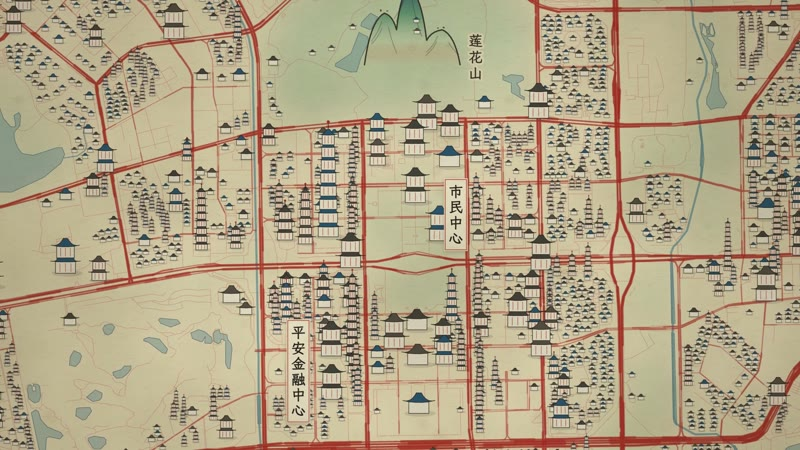
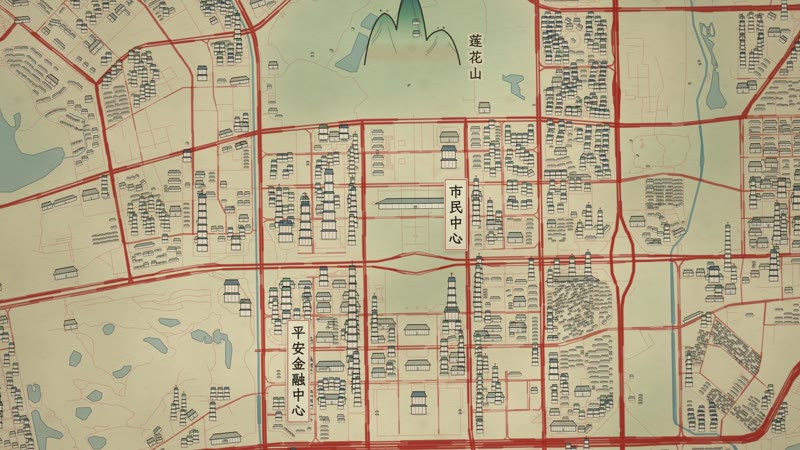
Scroll Map: style 03, the second of the Real Maps series (OpenStreetMap)
"Shenzhen, Unrolled" (48 s): a painted handscroll unrolls along the real
coast of Shenzhen. Ink traces the shore, blue-green mountains stand up,
cinnabar roads spread from Luohu and the towers of Futian rise as tiered
pavilions. The style is registered now (style.hold.json -> style.json),
so the gallery, the README tables and the style lists carry it.

The film is v003, built from the picture that was in progress:
- buildings follow their footprints: halls of the footprint's size and
  direction, pavilions only for buildings of 24 m and more (Ping An
  Finance Centre has 13 tiers);
- a square building that faces east or west was drawn as a slab standing
  on end, its roof to the right; it is turned to face south first, so
  every roof points up the sheet;
- the sound keeps the cue check and the pre-master levels: 6 cues, all
  0 ms, 111 sounds driven by the picture's events, -13.9 LUFS.

STYLE and DEMO describe the buildings as they are drawn now, in both
languages; README and TECHNIQUE name the third demo.

diff --git a/styleboard/index.html b/styleboard/index.html
@@ -4,18 +4,18 @@
 <meta charset="utf-8">
 <meta name="viewport" content="width=device-width, initial-scale=1">
 <title>NEO-Cine · film styles for Claude Code, made in code</title>
-<meta name="description" content="NEO-Cine: film styles for Claude Code, made one at a time (2 so far). Each style is a reusable prompt plus a short film made entirely in code, with no video model. Official site of github.com/neohoy/neo-cine.">
+<meta name="description" content="NEO-Cine: film styles for Claude Code, made one at a time (3 so far). Each style is a reusable prompt plus a short film made entirely in code, with no video model. Official site of github.com/neohoy/neo-cine.">
 <link rel="canonical" href="https://neohoy.github.io/neo-cine/">
 <meta property="og:type" content="website">
 <meta property="og:site_name" content="NEO-Cine">
 <meta property="og:url" content="https://neohoy.github.io/neo-cine/">
 <meta property="og:title" content="NEO-Cine · film styles for Claude Code, made in code">
-<meta property="og:description" content="NEO-Cine: film styles for Claude Code, made one at a time (2 so far). Each style is a reusable prompt plus a short film made entirely in code, with no video model. Official site of github.com/neohoy/neo-cine.">
-<meta property="og:image" content="https://neohoy.github.io/neo-cine/posters/atlas-scroll.jpg">
+<meta property="og:description" content="NEO-Cine: film styles for Claude Code, made one at a time (3 so far). Each style is a reusable prompt plus a short film made entirely in code, with no video model. Official site of github.com/neohoy/neo-cine.">
+<meta property="og:image" content="https://neohoy.github.io/neo-cine/posters/scroll-map.jpg">
 <meta name="twitter:card" content="summary_large_image">
 <meta name="twitter:title" content="NEO-Cine · film styles for Claude Code, made in code">
-<meta name="twitter:description" content="NEO-Cine: film styles for Claude Code, made one at a time (2 so far). Each style is a reusable prompt plus a short film made entirely in code, with no video model. Official site of github.com/neohoy/neo-cine.">
-<meta name="twitter:image" content="https://neohoy.github.io/neo-cine/posters/atlas-scroll.jpg">
+<meta name="twitter:description" content="NEO-Cine: film styles for Claude Code, made one at a time (3 so far). Each style is a reusable prompt plus a short film made entirely in code, with no video model. Official site of github.com/neohoy/neo-cine.">
+<meta name="twitter:image" content="https://neohoy.github.io/neo-cine/posters/scroll-map.jpg">
 <script type="application/ld+json">
 {
  "@context": "https://schema.org",
@@ -25,7 +25,7 @@
    "@id": "https://neohoy.github.io/neo-cine/",
    "url": "https://neohoy.github.io/neo-cine/",
    "name": "NEO-Cine gallery",
-   "description": "NEO-Cine: film styles for Claude Code, made one at a time (2 so far). Each style is a reusable prompt plus a short film made entirely in code, with no video model. Official site of github.com/neohoy/neo-cine.",
+   "description": "NEO-Cine: film styles for Claude Code, made one at a time (3 so far). Each style is a reusable prompt plus a short film made entirely in code, with no video model. Official site of github.com/neohoy/neo-cine.",
    "about": {
     "@id": "https://github.com/neohoy/neo-cine"
    },
@@ -241,7 +241,7 @@ footer .repo-link:hover{color:var(--yellow)}
     <p class="tagline">Every style is a reusable prompt, and a short film directed, drawn and scored entirely in code.</p>
     <p class="tagline-cn">每个风格是一份可复用的提示词，外加一支完全用代码导演、作画、配乐的短片。风格一个一个做。</p>
     <a class="repo" href="https://github.com/neohoy/neo-cine" target="_blank" rel="noopener"><svg viewBox="0 0 16 16" aria-hidden="true"><path d="M8 0C3.58 0 0 3.58 0 8c0 3.54 2.29 6.53 5.47 7.59.4.07.55-.17.55-.38 0-.19-.01-.82-.01-1.49-2.01.37-2.53-.49-2.69-.94-.09-.23-.48-.94-.82-1.13-.28-.15-.68-.52-.01-.53.63-.01 1.08.58 1.23.82.72 1.21 1.87.87 2.33.66.07-.52.28-.87.51-1.07-1.78-.2-3.64-.89-3.64-3.95 0-.87.31-1.59.82-2.15-.08-.2-.36-1.02.08-2.12 0 0 .67-.21 2.2.82.64-.18 1.32-.27 2-.27.68 0 1.36.09 2 .27 1.53-1.04 2.2-.82 2.2-.82.44 1.1.16 1.92.08 2.12.51.56.82 1.27.82 2.15 0 3.07-1.87 3.75-3.65 3.95.29.25.54.73.54 1.48 0 1.07-.01 1.93-.01 2.2 0 .21.15.46.55.38A8.01 8.01 0 0016 8c0-4.42-3.58-8-8-8z"/></svg><span>Get the styles on GitHub</span><b class="stars" data-stars hidden>★ <i></i></b></a>
-    <div class="stats"><div class="stat"><b>2</b><span>Styles<small>种风格</small></span></div><div class="stat"><b>2</b><span>Categories<small>个分类</small></span></div><div class="stat"><b>96</b><span>Seconds of film<small>秒影片</small></span></div></div>
+    <div class="stats"><div class="stat"><b>3</b><span>Styles<small>种风格</small></span></div><div class="stat"><b>2</b><span>Categories<small>个分类</small></span></div><div class="stat"><b>2</b><span>Minutes of film<small>分钟影片</small></span></div></div>
   </div>
 </header>
 
@@ -251,21 +251,21 @@ footer .repo-link:hover{color:var(--yellow)}
 </div></nav>
 
 <section class="feature" id="feature"><div class="wrap">
-  <p class="kicker">Newest style · No. 02<small>最新风格</small></p>
-  <h2>Atlas Scroll</h2>
-  <p class="sub">铜版图卷 · <em>From Thirteen to Fifty</em></p>
-  <div class="frame nominee-like" data-en="Atlas Scroll" data-cn="铜版图卷" data-film="From Thirteen to Fifty">
-    <div class="screen"><img class="still" src="../styles/atlas-scroll/poster.jpg" alt="Atlas Scroll — From Thirteen to Fifty">
-      <button class="play" type="button" data-src="../styles/atlas-scroll/atlas-scroll.mp4" data-poster="../styles/atlas-scroll/poster.jpg" aria-label="Play From Thirteen to Fifty"><i></i><span>0:56</span></button></div>
+  <p class="kicker">Newest style · No. 03<small>最新风格</small></p>
+  <h2>Scroll Map</h2>
+  <p class="sub">舆图长卷 · <em>Shenzhen, Unrolled</em></p>
+  <div class="frame nominee-like" data-en="Scroll Map" data-cn="舆图长卷" data-film="Shenzhen, Unrolled">
+    <div class="screen"><img class="still" src="../styles/scroll-map/poster.jpg" alt="Scroll Map — Shenzhen, Unrolled">
+      <button class="play" type="button" data-src="../styles/scroll-map/scroll-map.mp4" data-poster="../styles/scroll-map/poster.jpg" aria-label="Play Shenzhen, Unrolled"><i></i><span>0:48</span></button></div>
   </div>
-  <p class="blurb">A hand-coloured atlas plate unrolls westward: the states take their colours year by year, a covered wagon leads the way to the Pacific, and in 1869 the railway overtakes it.</p>
-  <p class="blurb-cn">一张手工设色的地图集图版向西展开：各州一年年上色，一辆篷车带路走到太平洋，1869 年铁路追上了它。</p>
-  <nav class="links"><a class="watch" href="#feature" data-feature>Watch the film</a><a href="../styles/atlas-scroll/STYLE.md" target="_blank" rel="noopener">STYLE.md</a><a href="../styles/atlas-scroll/STYLE.zh-CN.md" target="_blank" rel="noopener">风格说明</a></nav>
+  <p class="blurb">A handscroll unrolls along the real coast of Shenzhen: ink traces the shore, blue-green mountains stand up, cinnabar roads spread from Luohu and the towers of Futian rise as tiered pavilions.</p>
+  <p class="blurb-cn">一幅长卷沿着真实的深圳海岸展开：墨线勾出岸，青绿的山一座座立起来，朱砂的路从罗湖烧开，福田的高楼长成一层层的楼阁。</p>
+  <nav class="links"><a class="watch" href="#feature" data-feature>Watch the film</a><a href="../styles/scroll-map/STYLE.md" target="_blank" rel="noopener">STYLE.md</a><a href="../styles/scroll-map/STYLE.zh-CN.md" target="_blank" rel="noopener">风格说明</a></nav>
 </div></section>
 
 <main><div class="wrap">
 <section class="category" id="real-maps">
-  <header class="cat-head"><div><p class="cat-no">Category 01</p><h2>Real Maps</h2><p class="cat-cn">真实地图 · 1 style</p><p class="cat-cn">A series built on OpenStreetMap (the ground as it is today) and OpenHistoricalMap (borders, railways and routes by year): the map is real, the look changes from style to style.<br>基于 OpenStreetMap（今天的地面）和 OpenHistoricalMap（历年的边界、铁路、路线）的系列：地图是真的，画法每个风格各不相同。</p></div></header>
+  <header class="cat-head"><div><p class="cat-no">Category 01</p><h2>Real Maps</h2><p class="cat-cn">真实地图 · 2 styles</p><p class="cat-cn">A series built on OpenStreetMap (the ground as it is today) and OpenHistoricalMap (borders, railways and routes by year): the map is real, the look changes from style to style.<br>基于 OpenStreetMap（今天的地面）和 OpenHistoricalMap（历年的边界、铁路、路线）的系列：地图是真的，画法每个风格各不相同。</p></div></header>
   <div class="grid">
 <article class="nominee" data-slug="atlas-scroll" data-en="Atlas Scroll" data-cn="铜版图卷" data-film="From Thirteen to Fifty">
   <div class="screen"><img class="still" src="img/atlas-scroll_0.jpg" alt="Atlas Scroll — From Thirteen to Fifty" loading="lazy"><button class="play" type="button" data-src="../styles/atlas-scroll/atlas-scroll.mp4" data-poster="../styles/atlas-scroll/poster.jpg" aria-label="Play From Thirteen to Fifty"><i></i><span>0:56</span></button></div>
@@ -276,6 +276,17 @@ footer .repo-link:hover{color:var(--yellow)}
     <p class="line">A hand-coloured atlas plate unrolls westward: the states take their colours year by year, a covered wagon leads the way to the Pacific, and in 1869 the railway overtakes it.</p><p class="line-cn">一张手工设色的地图集图版向西展开：各州一年年上色，一辆篷车带路走到太平洋，1869 年铁路追上了它。</p>
     <ul class=uses aria-label="Best for"><li>How a country, a network or a market grew, year by year</li><li>Journeys along a real route with a guide to follow</li><li>History lessons and anniversary films</li></ul>
     <nav class="links"><a class="watch" href="../styles/atlas-scroll/atlas-scroll.mp4" data-play>Watch the film</a><a href="../styles/atlas-scroll/STYLE.md" target="_blank" rel="noopener">STYLE.md</a><a href="../styles/atlas-scroll/STYLE.zh-CN.md" target="_blank" rel="noopener">风格说明</a></nav>
+  </div>
+</article>
+<article class="nominee" data-slug="scroll-map" data-en="Scroll Map" data-cn="舆图长卷" data-film="Shenzhen, Unrolled">
+  <div class="screen"><img class="still" src="img/scroll-map_0.jpg" alt="Scroll Map — Shenzhen, Unrolled" loading="lazy"><button class="play" type="button" data-src="../styles/scroll-map/scroll-map.mp4" data-poster="../styles/scroll-map/poster.jpg" aria-label="Play Shenzhen, Unrolled"><i></i><span>0:48</span></button></div>
+  <div class="plate">
+    <p class="no">03</p>
+    <h3>Scroll Map</h3><p class="cn">舆图长卷</p>
+    <p class="for">for <em>Shenzhen, Unrolled</em></p>
+    <p class="line">A handscroll unrolls along the real coast of Shenzhen: ink traces the shore, blue-green mountains stand up, cinnabar roads spread from Luohu and the towers of Futian rise as tiered pavilions.</p><p class="line-cn">一幅长卷沿着真实的深圳海岸展开：墨线勾出岸，青绿的山一座座立起来，朱砂的路从罗湖烧开，福田的高楼长成一层层的楼阁。</p>
+    <ul class=uses aria-label="Best for"><li>City, district and coastline portraits</li><li>Routes and journeys: a road, a river, a metro line</li><li>Before-and-after stories of a place</li></ul>
+    <nav class="links"><a class="watch" href="../styles/scroll-map/scroll-map.mp4" data-play>Watch the film</a><a href="../styles/scroll-map/STYLE.md" target="_blank" rel="noopener">STYLE.md</a><a href="../styles/scroll-map/STYLE.zh-CN.md" target="_blank" rel="noopener">风格说明</a></nav>
   </div>
 </article>
   </div>

diff --git a/styles/scroll-map/demo/main.js b/styles/scroll-map/demo/main.js
@@ -77,6 +77,7 @@ const HOUSES = (det.buildings || []).map((b, i) => {
     const w = Math.max(D, 16), d = clamp(w / 2.3, 11, 40), n = clamp(Math.round(L / (d * 1.7)), 1, 8), ux = Math.cos(ang), uy = Math.sin(ang), a2 = a - Math.sign(a) * Math.PI / 2;
     return Array.from({ length: n }, (_, q) => { const o = (n === 1 ? 0 : (q / (n - 1) - .5)) * (L - d * 1.3); return { ...base, x: mx + ux * o, y: my + uy * o, L: w, D: d, ang: a2, bays: clamp(Math.round(w / 11), 1, 7), seed: i * 9 + q + 1 }; });
   }
+  if (Math.abs(a) > .87) { const f = Math.max(D, 16); D = Math.min(L, f); L = f; a -= Math.sign(a) * Math.PI / 2; }   // 朝东西的方楼：转成朝南来画，屋顶才朝上（不转的话是一块竖着的板）
   L = Math.max(L, 16); D = clamp(Math.max(D, L / 4.2), 11, 70);                                      // 太细长的占地加一点进深，不画成一根条
   return { ...base, x: mx, y: my, L, D, ang: a, bays: clamp(Math.round(L / 11), 1, 11), seed: i + 1 };
 }).flat().filter(Boolean).sort((p, q) => q.ar * (q.tiers + 1) - p.ar * (p.tiers + 1)).filter((() => {      // 大的先占位：同一个 20 米格子里只留一座，碎楼不成团

diff --git a/styles/scroll-map/STYLE.md b/styles/scroll-map/STYLE.md
@@ -21,7 +21,7 @@ Needs: the library's core tools, plus `neo/geo/osm.py` for the map data (Python 
 - **Land** is bare paper, with an ochre wash blurred inward from the shore, and a pale green wash under woods and parks.
 - **Ink lines** are stroked twice: once plain, once wider through an irregular dash, which reads as the pressure of a brush. Coast and railways are ink; nothing else is.
 - **Mountains** are signs, not terrain: two or three rounded peaks, ink on the ridge only, azurite at the top running through malachite into the paper at the foot, a few texture strokes and moss dots. Their size follows how deep the woodland is; a named peak with an elevation gets its own, sized by height. Northern ones are drawn first so that southern ones overlap them like ranges.
-- **Buildings** are signs too: a footprint becomes a small house (white body, dark hipped roof); a tall building becomes a pavilion whose number of tiers follows its height, each tier narrower, eaves turned up, a finial on top. Crowded small ones are thinned so that every sign is legible.
+- **Buildings** are signs too: a footprint becomes a hall of its own size, turned the way the footprint lies (white body, dark hipped roof, one bay per 11 m of frontage), and its roof always points up the sheet: a footprint that runs north–south is drawn as halls one behind the other, all facing south, never as a hall lying on its side. A tall building (24 m and more) becomes a pavilion whose number of tiers follows its height, each tier narrower, eaves turned up, a finial on top; it always stands upright. Crowded small ones are thinned so that every sign is legible; what is underground (metro boxes, malls under a square) is not drawn.
 - **Walled towns** get a crenellated square with gate towers.
 - All of it is procedural and seeded by the feature, so nothing boils. Only the vignette is in screen space.
 
@@ -87,7 +87,7 @@ A camera state is a point on the map and a frame height in metres. North is up a
 
 - **Roads become red bands up close.** Cap every line in pixels (§2), and let small roads appear only past a zoom threshold.
 - **The coast closes along the edge of the data** and draws a rectangle. Stroke only the true coast, and keep the painting's edge inside the data's edge by more than the widest wash.
-- **Data is uneven.** Building heights are often missing; small buildings come in swarms. Decide tiers from height where it exists and from footprint where it doesn't, and thin the swarms.
+- **Data is uneven.** Building heights are often missing; small buildings come in swarms. Draw a pavilion only where a height says the building is tall, a hall of the footprint's size everywhere else, and thin the swarms.
 - **Names vanish into mountains.** Halo them or put them on a slip, and place them beside the thing, not on it.
 - **A clip rectangle that starts off-screen** must still reach the right edge: compute its width from the screen, not from a constant.
 - **Boundaries.** Don't fetch or draw them (DIRECTOR.md §13). Draw both sides of any line the same way, and keep the frame regional.
@@ -96,14 +96,14 @@ A camera state is a point on the map and a frame height in metres. North is up a
 ## 10. Engine
 
 - [`neo/geo/osm.py`](../../neo/geo/osm.py): bounding box and layer names in, one JSON file out (metres around an origin, simplified lines, land closed against the box). `--origin` lets a detail file overlay a wide one.
-- [`demo/ink.js`](demo/ink.js): `makePaper`, `makeWaves`, `inkStroke(g, path, width, colour, seed)`, `drawPeak(g, x, y, w, h, seed)`, `drawHouse(g, x, y, w, tiers, seed, growth)`, `drawSlip`, `vtext`, `drawSeal`.
+- [`demo/ink.js`](demo/ink.js): `makePaper`, `makeWaves`, `inkStroke(g, path, width, colour, seed)`, `drawPeak(g, x, y, w, h, seed)`, `drawHall(g, x, y, frontage, depth, angle, bays, seed)`, `drawTower(g, x, y, w, tiers, seed, growth)`, `drawSlip`, `vtext`, `drawSeal`.
 - [`demo/main.js`](demo/main.js): `MOUNTAINS` (signs from woodland density and peaks), `HOUSES` (signs from footprints), `layer(draw, mask)` with `washMask` and `frontClip` for the fronts, `drawFort`, `drawScroll`.
 
 ```js
 // a river town at street scale, nothing from the demo: paper, one inked river, three pavilions
 g.fillStyle = C.paper; g.fillRect(0, 0, W, H);
 world(); inkStroke(g, riverPath, lw(40, 1.5, 5), C.ink, 7); screen();
-[[-300, 2], [0, 5], [280, 3]].forEach(([x, tiers], i) => drawHouse(g, sx(x), sy(120), 90 * S, tiers, i + 1, 1));
+[[-300, 2], [0, 5], [280, 3]].forEach(([x, tiers], i) => drawTower(g, sx(x), sy(120), 90 * S, tiers, i + 1, 1));
 drawSlip(g, '渡口', sx(420), sy(260), 30, 'slip');
 ```
 

diff --git a/styles/scroll-map/STYLE.zh-CN.md b/styles/scroll-map/STYLE.zh-CN.md
@@ -24,7 +24,7 @@
 - **陆地**是素纸，岸内有一圈往里晕开的赭石，林地和园地下面有一层淡的石绿。
 - **墨线**描两遍：一遍平描，一遍用不规则的虚线加粗，读起来像提按。只有海岸和铁路是墨线。
 - **山**是符号，不是地形：两三个圆厚的峰头，墨只勾山脊，石青压顶，经过石绿，在山脚化进纸里，几笔皴，几点苔。大小跟着林地的厚度走；有名字有高程的峰单独立一座，按高度定大小。北边的先画，南边的压在上面，像一层层山。
-- **楼**也是符号：一块占地画成一间小屋（粉白的墙、深色的歇山顶）；高楼画成楼阁，层数跟着高度走，一层比一层窄，檐角上挑，顶上有刹。挤在一起的小屋要删减，保证每个符号都看得清。
+- **楼**也是符号：一块占地画成和它一样大的一座堂屋，顺着占地的方向摆（粉白的墙、深色的歇山顶，面阔每 11 米一间），屋顶永远朝画面上方：南北向的占地画成前后几进、都朝南的堂屋，绝不画成一座侧躺着的屋。高楼（24 米以上）画成楼阁，层数跟着高度走，一层比一层窄，檐角上挑，顶上有刹，永远正着立。挤在一起的小屋要删减，保证每个符号都看得清；地下的东西（地铁站厅、广场下面的商场）不画。
 - **有城墙的城**画成一圈带垛口的方城，四面有城门楼。
 - 全部是程序化的，种子取自要素本身，所以不会抖。只有暗角在屏幕空间里。
 
@@ -90,7 +90,7 @@
 
 - **推近后路变成红色的带子。** 每条线都要有像素上限（§2），小路要过了某个缩放才出现。
 - **海岸沿着数据边界闭合**，画出一个长方形。只描真正的海岸，并且让画心的边比数据的边往里收，收的量大于最宽的晕染。
-- **数据不均匀。** 楼高常常没填；小楼成群出现。有高度的按高度定层数，没有的按占地定，成群的要删减。
+- **数据不均匀。** 楼高常常没填；小楼成群出现。只有标了高度、确实是高楼的才画楼阁，其余按占地的大小画堂屋，成群的要删减。
 - **名字被山盖住。** 给它描边或者放到签上，放在东西旁边，不放在东西上面。
 - **从屏幕外开始的裁剪矩形**仍然要够到右边缘：宽度要从屏幕算，不能用常数。
 - **界线。** 不取、不画（DIRECTOR.md §13）。任何一条线的两边用同样的画法，画面保持在区域尺度。
@@ -99,7 +99,7 @@
 ## 10. 引擎
 
 - [`neo/geo/osm.py`](../../neo/geo/osm.py)：输入范围和图层名，输出一份 JSON（以某个原点为中心的米制坐标、简化过的线、按范围闭合的陆地）。用 `--origin` 可以让一份细节数据叠在一份大范围数据上。
-- [`demo/ink.js`](demo/ink.js)：`makePaper`、`makeWaves`、`inkStroke(g, path, width, colour, seed)`、`drawPeak(g, x, y, w, h, seed)`、`drawHouse(g, x, y, w, tiers, seed, growth)`、`drawSlip`、`vtext`、`drawSeal`。
+- [`demo/ink.js`](demo/ink.js)：`makePaper`、`makeWaves`、`inkStroke(g, path, width, colour, seed)`、`drawPeak(g, x, y, w, h, seed)`、`drawHall(g, x, y, 面阔, 进深, 角度, 间数, seed)`、`drawTower(g, x, y, w, tiers, seed, growth)`、`drawSlip`、`vtext`、`drawSeal`。
 - [`demo/main.js`](demo/main.js)：`MOUNTAINS`（由林地厚度和山峰生成的符号）、`HOUSES`（由占地生成的符号）、做前沿用的 `layer(draw, mask)` 加 `washMask` 和 `frontClip`、`drawFort`、`drawScroll`。
 
 最小示例见英文版 §10：街道尺度上的一个渡口小镇，一条墨线的河、三座楼阁、一张贴签，和示范片无关。

diff --git a/styles/scroll-map/DEMO.md b/styles/scroll-map/DEMO.md
@@ -44,7 +44,7 @@ Native moves spent: unrolling (opening and reveal), the brush leading (the penin
 
 ## Palette & props
 
-The palette in STYLE.md §3 is this film's. Slips: pale `#f2e8cc` with a cinnabar frame; the two old towns (Dapeng Fortress, Nantou) on cinnabar slips. Seal: 深圳. Mountains come from 3,040 woodland areas and the named peaks of 60 m and more; the pavilions from 4,868 building footprints in central Futian, of which 1,357 carry a height.
+The palette in STYLE.md §3 is this film's. Slips: pale `#f2e8cc` with a cinnabar frame; the two old towns (Dapeng Fortress, Nantou) on cinnabar slips. Seal: 深圳. Mountains come from 3,040 woodland areas and the named peaks of 60 m and more; the buildings from 4,825 footprints in central Futian: the 1,143 that carry a height of 24 m and more are pavilions (Ping An Finance Centre, 599 m, has 13 tiers), the others halls drawn along their footprints.
 
 Map view: a coastal strip, 113.74–114.66° E, 22.40–22.74° N, north up, no boundary lines; the New Territories at the bottom edge are drawn exactly like the rest.
 
@@ -58,7 +58,7 @@ The whole scroll on a dark table; at its right end the title 鹏城长卷 and th
 |---|---|
 | `demo/index.html` | fonts and the canvas |
 | `demo/timeline.js` | the one source of time: camera keys, the roll, ink and cinnabar fronts, tower timing, title, labels |
-| `demo/ink.js` | the recipes: paper, waves, ink stroke, peak, house and pavilion, slip, seal |
+| `demo/ink.js` | the recipes: paper, waves, ink stroke, peak, hall and pavilion, slip, seal |
 | `demo/main.js` | data → paths and signs, the layers and their fronts, the scroll and roll, sound events, `window.render` |
 | `demo/mix.py` | score, foley, ambience and bus |
 | `demo/data/coast.json`, `futian.json` | the map, made by `neo/geo/osm.py` (commands in `build.sh`) |
@@ -73,6 +73,9 @@ The whole scroll on a dark table; at its right end the title 鹏城长卷 and th
   - Fish ponds in the south read as grey buildings until water outlines were thinned by zoom.
   - The first mountains were spiky and read as pine trees: the ridge curves were made convex.
   - Small building parts swarmed into dark blots: larger signs now claim their space first.
+  - Every footprint drawn as the same small house made the centre of Futian a field of pagodas: only buildings of 24 m and more are pavilions now, the rest are halls of the footprint's size and direction.
+  - A square building that faces east or west came out as a slab standing on end, its roof to the right: it is turned to face south before it is drawn.
+  - Metro station boxes and underground malls were drawn as huge halls in the middle of squares: `neo/geo/osm.py` leaves out what is tagged underground.
 
 ## content.json fields (scene styles only)
 

diff --git a/README.md b/README.md
@@ -11,7 +11,7 @@ Pick a style, bring your story, and let your coding agent direct.<br>
 ⚠ **Built for Claude Code.** The styles are made and tuned with Claude;<br>
 other agents may not reproduce them well.
 
-🆕 **2026-11-11 · [Style 02: Atlas Scroll](https://neohoy.github.io/neo-cine/)**: the first style of the Real Maps series, drawn over OpenStreetMap and OpenHistoricalMap data. A hand-coloured old map unrolls westward and the states take their colours year by year. [See it ↓](#the-styles)
+🆕 **2026-11-12 · [Style 03: Scroll Map](https://neohoy.github.io/neo-cine/)**: the second style of the Real Maps series, drawn over OpenStreetMap data. A painted handscroll unrolls along the coast of Shenzhen: ink traces the shore, blue-green mountains stand up, cinnabar roads spread from Luohu and the towers of Futian rise as tiered pavilions. [See it ↓](#the-styles)
 
 <sub>Official repo: [github.com/neohoy/neo-cine](https://github.com/neohoy/neo-cine) · by NEO造物集 ([@neohoy](https://github.com/neohoy))</sub>
 
@@ -163,7 +163,7 @@ A series built on OpenStreetMap (the ground as it is today) and OpenHistoricalMa
 <table>
 <tr>
 <td width="33%" valign="top"><a href="styles/atlas-scroll/STYLE.md"><img src="docs/frames/atlas-scroll.jpg" alt="Atlas Scroll"></a><br><b>Atlas Scroll</b><br><i>From Thirteen to Fifty</i><br><sub>A hand-coloured atlas plate unrolls westward: the states take their colours year by year, a covered wagon leads the way to the Pacific, and in 1869 the railway overtakes it.</sub></td>
-<td width="33%" valign="top"></td>
+<td width="33%" valign="top"><a href="styles/scroll-map/STYLE.md"><img src="docs/frames/scroll-map.jpg" alt="Scroll Map"></a><br><b>Scroll Map</b><br><i>Shenzhen, Unrolled</i><br><sub>A handscroll unrolls along the real coast of Shenzhen: ink traces the shore, blue-green mountains stand up, cinnabar roads spread from Luohu and the towers of Futian rise as tiered pavilions.</sub></td>
 <td width="33%" valign="top"></td>
 </tr>
 </table>

diff --git a/README.zh-CN.md b/README.zh-CN.md
@@ -10,7 +10,7 @@
 ⚠ **为 Claude Code 做的。** 风格都是用 Claude 做出来、调出来的，<br>
 换成其他 agent 不保证能做出同样的效果。
 
-🆕 **2026-11-11 · [02 号风格：铜版图卷](https://neohoy.github.io/neo-cine/)**：“真实地图”系列的第一个风格，画在 OpenStreetMap 和 OpenHistoricalMap 的数据上。一张手工设色的老地图向西展开，各州一年年上色。[往下看 ↓](#风格)
+🆕 **2026-11-12 · [03 号风格：舆图长卷](https://neohoy.github.io/neo-cine/)**：“真实地图”系列的第二个风格，画在 OpenStreetMap 的数据上。一幅设色长卷沿着深圳的海岸展开：墨线勾出岸，青绿的山立起来，朱砂的路从罗湖散开，福田的高楼长成一层层的楼阁。[往下看 ↓](#风格)
 
 <sub>官方仓库：[github.com/neohoy/neo-cine](https://github.com/neohoy/neo-cine) · NEO造物集（[@neohoy](https://github.com/neohoy)）</sub>
 
@@ -165,7 +165,7 @@ claude plugin uninstall neo-cine@neo
 <table>
 <tr>
 <td width="33%" valign="top"><a href="styles/atlas-scroll/STYLE.zh-CN.md"><img src="docs/frames/atlas-scroll.jpg" alt="铜版图卷"></a><br><b>铜版图卷</b><br>Atlas Scroll<br><i>From Thirteen to Fifty</i><br><sub>一张手工设色的地图集图版向西展开：各州一年年上色，一辆篷车带路走到太平洋，1869 年铁路追上了它。</sub></td>
-<td width="33%" valign="top"></td>
+<td width="33%" valign="top"><a href="styles/scroll-map/STYLE.zh-CN.md"><img src="docs/frames/scroll-map.jpg" alt="舆图长卷"></a><br><b>舆图长卷</b><br>Scroll Map<br><i>Shenzhen, Unrolled</i><br><sub>一幅长卷沿着真实的深圳海岸展开：墨线勾出岸，青绿的山一座座立起来，朱砂的路从罗湖烧开，福田的高楼长成一层层的楼阁。</sub></td>
 <td width="33%" valign="top"></td>
 </tr>
 </table>

diff --git a/TECHNIQUE.zh-CN.md b/TECHNIQUE.zh-CN.md
@@ -158,7 +158,7 @@ export const HIT  = { pratfall: ['chase', 6], ... };   // 段落 + 拍
 
 ## 12. 在我们的示范片里看哪里
 
-NEO-Cine 目前有两支示范片。《十三到五十》（From Thirteen to Fifty，56 秒，120 BPM），风格是铜版图卷（Atlas Scroll），展示一张随年份变化的地图：带日期的边界和铁路来自 `neo/geo/ohm.py`，按年份取版本和邻接着色在 `styles/atlas-scroll/demo/main.js`（`at`、`drawMap`），镜头跟随的行旅（`guideAt`、`drawGuides`），屏幕空间的牌子（`drawHud`），班卓、吉他、口琴的配乐在 `demo/mix.py`。下表讲的是另一支，《折叠深圳》（Shenzhen, Folded，40 秒，120 BPM），风格是折叠城市（Folding City）。
+NEO-Cine 目前有三支示范片。《鹏城长卷》（Shenzhen, Unrolled，48 秒，60 BPM），风格是舆图长卷（Scroll Map），展示一幅画出来的真实地图：`neo/geo/osm.py` 的海岸、林地、路网和建筑占地，在 `styles/scroll-map/demo/main.js` 里变成山、堂屋和楼阁的符号（`MOUNTAINS`、`HOUSES`），几条前沿把图层一层层放出来（`layer`、`frontClip`），画法在 `demo/ink.js`，古琴、箫、琵琶的配乐在 `demo/mix.py`。《十三到五十》（From Thirteen to Fifty，56 秒，120 BPM），风格是铜版图卷（Atlas Scroll），展示一张随年份变化的地图：带日期的边界和铁路来自 `neo/geo/ohm.py`，按年份取版本和邻接着色在 `styles/atlas-scroll/demo/main.js`（`at`、`drawMap`），镜头跟随的行旅（`guideAt`、`drawGuides`），屏幕空间的牌子（`drawHud`），班卓、吉他、口琴的配乐在 `demo/mix.py`。下表讲的是第三支，《折叠深圳》（Shenzhen, Folded，40 秒，120 BPM），风格是折叠城市（Folding City）。
 
 | 如果你需要…… | 去看 |
 |---|---|

diff --git a/TECHNIQUE.md b/TECHNIQUE.md
@@ -158,7 +158,7 @@ Fonts: Google Fonts (OFL), self-hosted in the project. The typefaces a `STYLE.md
 
 ## 12. Where to look in our demos
 
-NEO-Cine has two demos so far. "From Thirteen to Fifty 十三到五十" (56 s, 120 BPM), in the style Atlas Scroll 铜版图卷, shows a map that changes by year: dated borders and railways from `neo/geo/ohm.py`, the version lookup and neighbour colouring in `styles/atlas-scroll/demo/main.js` (`at`, `drawMap`), a traveller the camera follows (`guideAt`, `drawGuides`), screen-space plates (`drawHud`) and a banjo, guitar and harmonica score in `demo/mix.py`. The table below is for the other one, "Shenzhen, Folded 折叠深圳" (40 s, 120 BPM), in the style Folding City 折叠城市.
+NEO-Cine has three demos so far. "Shenzhen, Unrolled 鹏城长卷" (48 s, 60 BPM), in the style Scroll Map 舆图长卷, shows a real map that is painted: the coast, woodland, roads and building footprints from `neo/geo/osm.py` become signs for mountains, halls and pavilions in `styles/scroll-map/demo/main.js` (`MOUNTAINS`, `HOUSES`), fronts release the layers one at a time (`layer`, `frontClip`), the recipes are in `demo/ink.js`, and the guqin, xiao and pipa score is in `demo/mix.py`. "From Thirteen to Fifty 十三到五十" (56 s, 120 BPM), in the style Atlas Scroll 铜版图卷, shows a map that changes by year: dated borders and railways from `neo/geo/ohm.py`, the version lookup and neighbour colouring in `styles/atlas-scroll/demo/main.js` (`at`, `drawMap`), a traveller the camera follows (`guideAt`, `drawGuides`), screen-space plates (`drawHud`) and a banjo, guitar and harmonica score in `demo/mix.py`. The table below is for the third, "Shenzhen, Folded 折叠深圳" (40 s, 120 BPM), in the style Folding City 折叠城市.
 
 | If you need… | Look at |
 |---|---|

diff --git a/styles/scroll-map/DEMO.zh-CN.md b/styles/scroll-map/DEMO.zh-CN.md
@@ -46,7 +46,7 @@
 
 ## 配色与道具
 
-STYLE.zh-CN.md §3 里的示例配色就是这支片子的。贴签：浅色 `#f2e8cc` 加朱框；两座古城（大鹏所城、南头古城）用朱签。印文：深圳。山来自 3,040 块林地和 60 米以上的有名山峰；楼阁来自福田中心区的 4,868 个建筑占地，其中 1,357 个带高度。
+STYLE.zh-CN.md §3 里的示例配色就是这支片子的。贴签：浅色 `#f2e8cc` 加朱框；两座古城（大鹏所城、南头古城）用朱签。印文：深圳。山来自 3,040 块林地和 60 米以上的有名山峰；屋宇来自福田中心区的 4,825 个建筑占地：标了高度、在 24 米以上的 1,143 个画成楼阁（平安金融中心 599 米，13 层），其余顺着占地画成堂屋。
 
 地图视角：沿海一条，东经 113.74–114.66°、北纬 22.40–22.74°，北朝上，不画任何界线；画面下缘的新界和其他地方画法完全一样。
 
@@ -75,6 +75,9 @@ STYLE.zh-CN.md §3 里的示例配色就是这支片子的。贴签：浅色 `#f
   - 南边的鱼塘看着像灰色的楼，直到水体的描边按缩放变细。
   - 最早的山太尖，像松树：山脊的曲线改成了外凸的。
   - 细碎的建筑部件挤成黑块：现在大的符号先占位。
+  - 每块占地都画成同样的小屋时，福田中心区成了一片塔林：现在只有 24 米以上的楼画成楼阁，其余按占地的大小和方向画成堂屋。
+  - 朝东或朝西的方楼画出来是一块竖着的板，屋顶朝右：现在先转成朝南再画。
+  - 地铁站厅和地下商场被画成广场中间的大屋：`neo/geo/osm.py` 现在不取标为地下的建筑。
 
 ## content.json 字段（仅场景型风格）
 

diff --git a/AGENTS.md b/AGENTS.md
@@ -49,9 +49,9 @@ If the user hasn't picked a style:
 - Then ask them to type the name. The list goes in your own message (a command's output isn't shown to them), and the question is plain text, not `AskUserQuestion`: its few options would hide the rest of the list.
 
 <!-- style-list:start -->
-All styles (2) · 全部风格:
+All styles (3) · 全部风格:
 
-- **真实地图 Real Maps** (1): 铜版图卷 Atlas Scroll
+- **真实地图 Real Maps** (2): 铜版图卷 Atlas Scroll, 舆图长卷 Scroll Map
 - **图形与排版 Graphic & Type** (1): 折叠城市 Folding City
 <!-- style-list:end -->
 

diff --git a/AGENTS.zh-CN.md b/AGENTS.zh-CN.md
@@ -49,9 +49,9 @@
 - 然后请用户把风格名打出来。列表要写在你自己的消息里（命令的输出用户看不到），提问用纯文字，不用 `AskUserQuestion`：它的选项太少，会把列表的其余部分挡住。
 
 <!-- style-list:start -->
-All styles (2) · 全部风格:
+All styles (3) · 全部风格:
 
-- **真实地图 Real Maps** (1): 铜版图卷 Atlas Scroll
+- **真实地图 Real Maps** (2): 铜版图卷 Atlas Scroll, 舆图长卷 Scroll Map
 - **图形与排版 Graphic & Type** (1): 折叠城市 Folding City
 <!-- style-list:end -->
 
